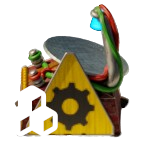
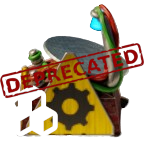
refactor: migrate to khaoscircuitry

Changed region(s): [[0.0, 0.2778, 1.0, 0.6944]]

diff --git a/README.md b/README.md
@@ -1,7 +1,6 @@
-[![Factorio Mod Portal page](https://img.shields.io/badge/dynamic/json?color=orange&label=Factorio&query=downloads_count&suffix=%20downloads&url=https%3A%2F%2Fmods.factorio.com%2Fapi%2Fmods%2FAlertScannerTweaks&style=for-the-badge)](https://mods.factorio.com/mod/AlertScannerTweaks) [![](https://img.shields.io/github/issues/QuingKhaos/AlertScannerTweaks/bug?label=Bug%20Reports&style=for-the-badge)](https://github.com/QuingKhaos/AlertScannerTweaks/issues?q=is%3Aissue%20state%3Aopen%20label%3Abug) [![](https://img.shields.io/github/issues-pr/QuingKhaos/AlertScannerTweaks?label=Pull%20Requests&style=for-the-badge)](https://github.com/QuingKhaos/AlertScannerTweaks/pulls) [![Ko-fi](https://img.shields.io/badge/Ko--fi-support%20me-ff5e5b?logo=kofi&logoColor=white&style=for-the-badge)](https://ko-fi.com/quingkhaos)
+[![The Foundry](https://img.shields.io/badge/foundrygg-4a1402?style=for-the-badge&logo=vercel&logoColor=white)](https://foundrygg.com/)
+[![Discord community](https://img.shields.io/badge/Discord-%235865F2.svg?style=for-the-badge&logo=discord&logoColor=white)](https://discord.gg/SYmkaDjFCt)
 
-# Alert Scanner Tweaks
+# [DEPRECATED] Alert Scanner Tweaks
 
-Opinionated tweaks to [Alert Scanner](https://mods.factorio.com/mod/AlertScanner). For a full list of changes, take a look at the changelog.
-
-If you want to see some new tweaks, feel free to open a discussion thread on the mod portal or a GitHub issue. Eventually some non so opiniated tweaks will make it into the original mod.
+Functionality migrated to [QuingKhaos' Circuitry Tweaks](https://mods.factorio.com/mod/khaoscircuitry).
